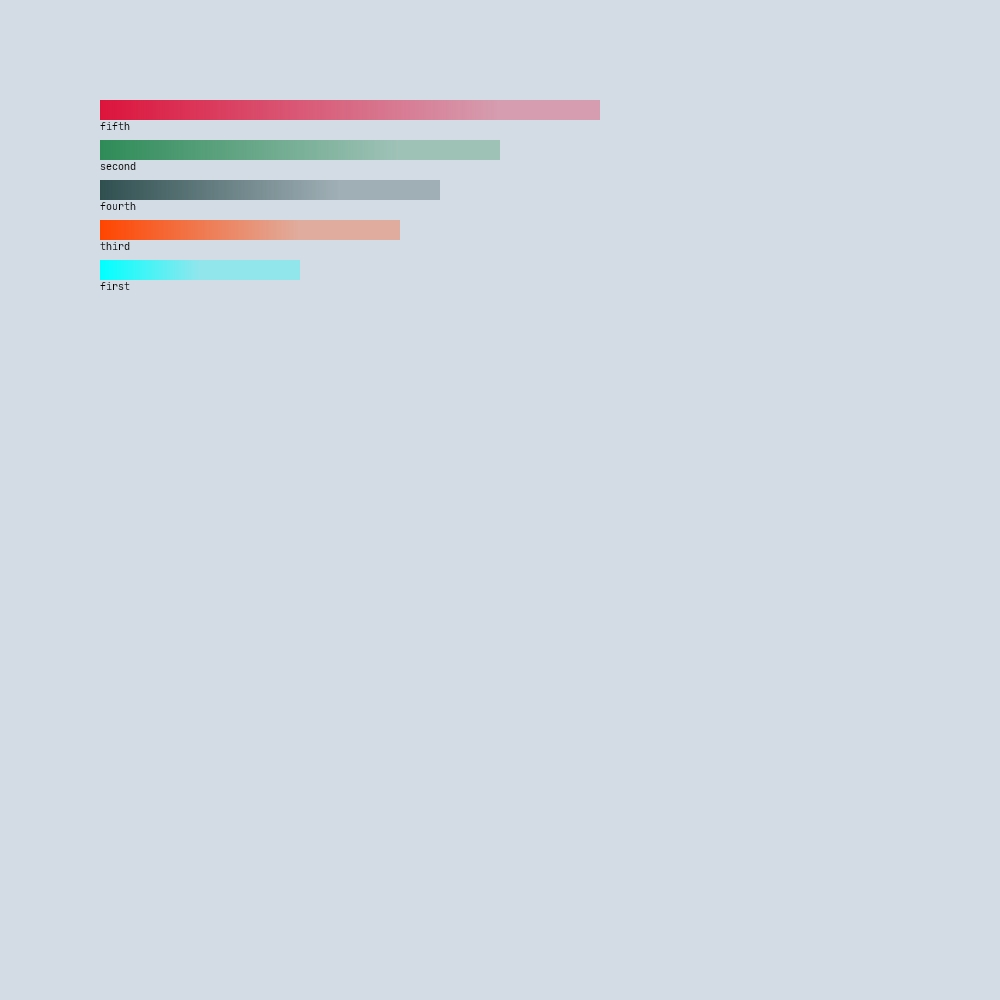
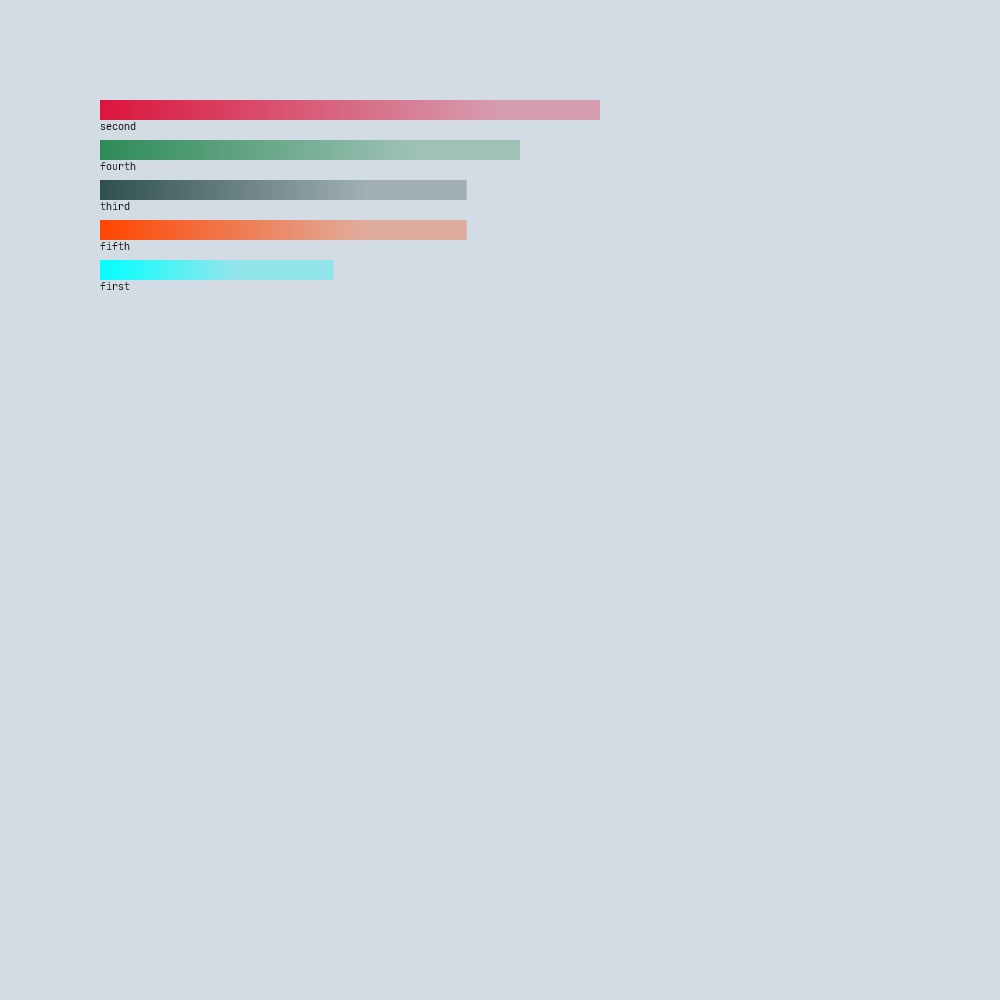
prepareData.kt was refactored

diff --git a/src/main/kotlin/prepareData.kt b/src/main/kotlin/prepareData.kt
@@ -1,3 +1,4 @@
+
 var data : MutableList<classData> = mutableListOf()
 var dataGraph : classGraph = classGraph()
 var fields : List<String> = listOf()
@@ -24,41 +25,72 @@ fun getTypeInput() : typesOfInput? {
     }
 }
 
-fun prepareClusteredHistohram() : Boolean{
+fun getKeyValues(m : Int) : Pair<String, MutableList<Float>>?{
+    var line = lines[st++].split(' ').toMutableList()
+    if(line.isEmpty()){
+        Errors(Error.EMPTYINPUT, st - 1)
+        return null
+    }
+    var key = line[0]
+    line.removeFirst()
+    var values = line.map{
+        if(it.toFloatOrNull() == null){
+            Errors(Error.FLOATINPUT, st - 1)
+            return null
+        }
+        it.toFloat()
+    }.toMutableList()
+    if(values.size != m){
+        Errors(Error.MATCHSIZEFIELDS, st - 1)
+        return null
+    }
+    return Pair(key, values)
+}
+
+fun getPoints() : Pair<Int, MutableList<Pair<Float, Float>>>?{
+    var n = lines[st++].toIntOrNull()
+    if(n == null){
+        Errors(Error.INTINPUT, st)
+        return null
+    }
+    var list = mutableListOf<Pair<Float, Float>>()
+    for (i in 0 until n) {
+        var pair = getKeyValues(1)
+        if(pair == null){
+            return null
+        }
+        var x = pair.first.toFloatOrNull()
+        if(x == null){
+            Errors(Error.FLOATINPUT, st - 1)
+            return null
+        }
+        var y = pair.second[0]
+        list.add(Pair(x, y))
+    }
+    list.sortWith( compareBy({it.first}, {it.second}))
+    return Pair(n, list)
+}
+
+fun prepareClusteredHistogram() : Boolean{
     var nInput = lines[st++].toIntOrNull()
     var mInput = lines[st++].toIntOrNull()
     if(nInput == null || mInput == null){
-        Errors(Error.INTINPUT)
+        Errors(Error.INTINPUT, st - 1)
         return false
     }
     n = nInput
     m = mInput
     fields = lines[st++].split(' ')
     if(fields.size != m){
-        Errors(Error.MATCHSIZEFIELDS)
+        Errors(Error.MATCHSIZEFIELDS, st - 1)
         return false
     }
     for(i in 0 until n){
-        var pair = lines[st++].split(' ')
-        if(pair.isEmpty()){
-            Errors(Error.EMPTYINPUT)
+        var element = getKeyValues(m)
+        if(element == null){
             return false
         }
-        var product = pair[0]
-        var vec1 = pair.toMutableList()
-        vec1.removeFirst()
-        var vec = vec1.map {
-            if(it.toIntOrNull() == null){
-                Errors(Error.INTINPUT)
-                return false
-            }
-            it.toInt()
-        }
-        if (vec.size != m) {
-            Errors(Error.MATCHSIZEFIELDS)
-            return false
-        }
-        data.add(classData(product, vec.toMutableList()))
+        data.add(classData(element.first, element.second))
     }
     return true
 }
@@ -66,12 +98,12 @@ fun prepareClusteredHistohram() : Boolean{
 fun prepareGraph() : Boolean {
     fields = lines[st++].split(' ')
     if(fields.size != 2){
-        Errors(Error.TWOFIELDS)
+        Errors(Error.TWOFIELDS, st - 1)
         return false
     }
     var nInput = lines[st++].toIntOrNull()
     if(nInput == null){
-        Errors(Error.INTINPUT)
+        Errors(Error.INTINPUT, st - 1)
         return false
     }
     n = nInput
@@ -79,33 +111,15 @@ fun prepareGraph() : Boolean {
     for(i in 0 until n){
         var name = lines[st++]
         if(name.isEmpty()){
-            Errors(Error.EMPTYINPUT)
+            Errors(Error.EMPTYINPUT, st - 1)
             continue
         }
         dataGraph.names.add(name)
-        var mInput = lines[st++].toIntOrNull()
-        if(mInput == null){
-            Errors(Error.INTINPUT)
+        var mList = getPoints()
+        if(mList == null){
             return false
         }
-        m = mInput
-        var list = mutableListOf<Pair<Float, Float>>()
-        for (i in 0 until m) {
-            var pair = lines[st++].split(' ')
-            if(pair.size != 2){
-                Errors(Error.MATCHSIZEFIELDS)
-                return false
-            }
-            var x = pair[0].toFloatOrNull()
-            var y = pair[1].toFloatOrNull()
-            if(x == null || y === null){
-                Errors(Error.FLOATINPUT)
-                return false
-            }
-            list.add(Pair(x, y))
-        }
-        list.sortWith( compareBy({it.first}, {it.second}))
-        dataGraph.xyValues.add(list)
+        dataGraph.xyValues.add(mList.second)
     }
     return true
 }
@@ -113,25 +127,18 @@ fun prepareGraph() : Boolean {
 fun preparePieChart() : Boolean{
     var nInput = lines[st++].toIntOrNull()
     if(nInput == null){
-        Errors(Error.INTINPUT)
+        Errors(Error.INTINPUT, st - 1)
         return false
     }
     n = nInput
     data1.n = n
-    var list : MutableList <Pair<Int, String> > = mutableListOf()
+    var list : MutableList <Pair<Float, String> > = mutableListOf()
     for(i in 0 until n){
-        var str = lines[st++].split(' ')
-        if(str.size != 2){
-            Errors(Error.TWOFIELDS)
+        val nameValue = getKeyValues(1)
+        if(nameValue == null){
             return false
         }
-        var name = str[0]
-        var value = str[1].toIntOrNull() // exception !!!!!!!!!
-        if(value == null){
-            Errors(Error.INTINPUT)
-            return false
-        }
-        list.add(Pair(value, name))
+        list.add(Pair(nameValue.second[0], nameValue.first))
     }
     list.sortByDescending { it.first }
     for(v in list){
@@ -142,27 +149,14 @@ fun preparePieChart() : Boolean{
 }
 
 fun prepareDistributionGraph() : Boolean{
-    var nInput = lines[st++].toIntOrNull()
-    if(nInput == null){
-        Errors(Error.INTINPUT)
+    var nValues = getPoints()
+    if(nValues == null){
         return false
     }
-    n = nInput
-    dataDistributionGraph.n = n
-    for(i in 0 until n){
-        var str = lines[st++].split(' ')
-        if(str.size != 2){
-            Errors(Error.TWOFIELDS)
-            return false
-        }
-        var x = str[0].toFloatOrNull()
-        var y = str[1].toFloatOrNull() // exception !!!!!!!!!
-        if(x == null || y == null){
-            Errors(Error.FLOATINPUT)
-            return false
-        }
-        dataDistributionGraph.xValues.add(x)
-        dataDistributionGraph.yValues.add(y)
+    n = nValues.first
+    nValues.second.forEach {
+        dataDistributionGraph.xValues.add(it.first)
+        dataDistributionGraph.yValues.add(it.second)
     }
     return true
 }

diff --git a/src/main/kotlin/Errors.kt b/src/main/kotlin/Errors.kt
@@ -5,13 +5,13 @@ enum class Error{
     WRONGTYPE, INTINPUT, MATCHSIZEFIELDS, TWOFIELDS, EMPTYINPUT, FLOATINPUT
 }
 
-fun Errors(typeEr : Error){
+fun Errors(typeEr : Error, line : Int){
     when(typeEr){
-        Error.WRONGTYPE -> println("you entered the wrong command type\n")
-        Error.INTINPUT -> println("there must be an integer input\n")
-        Error.MATCHSIZEFIELDS -> println("the number of fields does not match the declared\n")
-        Error.TWOFIELDS -> println("there should be two fields\n")
-        Error.EMPTYINPUT -> println("empty input\n")
-        Error.FLOATINPUT -> println("there must be a float input\n")
+        Error.WRONGTYPE -> println("you entered the wrong command type in ${line + 1} line\n")
+        Error.INTINPUT -> println("there must be an integer input in ${line + 1} line\n")
+        Error.MATCHSIZEFIELDS -> println("the number of fields does not match the declared in ${line + 1} line\n")
+        Error.TWOFIELDS -> println("there should be two fields in ${line + 1} line\n")
+        Error.EMPTYINPUT -> println("empty input in ${line + 1} line\n")
+        Error.FLOATINPUT -> println("there must be a float input in ${line + 1} line\n")
     }
 }

diff --git a/src/main/kotlin/main.kt b/src/main/kotlin/main.kt
@@ -21,8 +21,8 @@ import javax.swing.WindowConstants
 import kotlin.io.path.*
 
 
-var mapActionsType = mapOf(typesOfInput.CLUSTEREDHISTOHRAM to :: prepareClusteredHistohram,
-typesOfInput.GRAPH to :: prepareGraph, typesOfInput.STACKEDHISTOHRAM to :: prepareClusteredHistohram,
+var mapActionsType = mapOf(typesOfInput.CLUSTEREDHISTOHRAM to :: prepareClusteredHistogram,
+typesOfInput.GRAPH to :: prepareGraph, typesOfInput.STACKEDHISTOHRAM to :: prepareClusteredHistogram,
 typesOfInput.PIECHART to :: preparePieChart, typesOfInput.DISTRIBUTIONGRAPH to :: prepareDistributionGraph,
 typesOfInput.BARCHART to :: preparePieChart)
 var st = 0
@@ -31,7 +31,7 @@ fun main(args : Array<String>) {
     lines = File(args[0]).readText().split('\n').map{it.removeSuffix("\r")}.toMutableList()
     type = getTypeInput()
     if(type == null){
-        Errors(Error.WRONGTYPE)
+        Errors(Error.WRONGTYPE, st - 1)
         return
     }
     if(mapActionsType[type]?.let{it()} == false) {

diff --git a/src/main/kotlin/data.kt b/src/main/kotlin/data.kt
@@ -2,7 +2,7 @@ import org.jetbrains.skija.Canvas
 import org.jetbrains.skija.Font
 import org.jetbrains.skija.Paint
 
-class classData(var key : String = "", var values : MutableList<Int> = mutableListOf()){
+class classData(var key : String = "", var values : MutableList<Float> = mutableListOf()){
 
 }
 
@@ -10,7 +10,7 @@ class classGraph(var n : Int = 0, var names : MutableList<String> = mutableListO
 
 }
 
-class classData1(var n : Int = 0, var keys : MutableList<String> = mutableListOf(), var values : MutableList<Int> = mutableListOf()){
+class classData1(var n : Int = 0, var keys : MutableList<String> = mutableListOf(), var values : MutableList<Float> = mutableListOf()){
 
 }
 

diff --git a/src/main/kotlin/getInstructionsPieChart.kt b/src/main/kotlin/getInstructionsPieChart.kt
@@ -37,7 +37,7 @@ fun getInstructionsPieChart(paint : Paint) : MutableList<Instruction > {
         var angleTo = -startAngle - 180f * v / sum
         var centralX = pointx + startradius * cos(angleTo / 180f * PI) / 2
         var centralY = pointy - startradius * sin(angleTo / 180f * PI) / 2
-        var percent = v * 100 / sum
+        var percent = (v * 100 / sum).toInt()
         instructions.add(Instruction(Type = "String", text = "$percent%", coordinates = floatArrayOf(centralX.toFloat(), centralY.toFloat())))
         if(angleTo < -90f || angleTo > 90f){
             instructions.add(Instruction(Type = "String", text = data1.keys[i], coordinates = floatArrayOf(leftx, lefty)))

diff --git a/src/main/kotlin/getInstructionsStackedHistohram.kt b/src/main/kotlin/getInstructionsStackedHistohram.kt
@@ -12,7 +12,7 @@ fun getInstructionsStackedHistohram(paint : Paint) : MutableList<Instruction>{
         instructions.add(Instruction(Type = "Rect", coordinates = floatArrayOf(30f, 30f + 20 * j * 1f,  10f, 10f), paints = arrayListOf(arrayListPaints[j])))
         instructions.add(Instruction(Type = "String", text = fields[j], coordinates = floatArrayOf(40f, 40f + 20 * j * 1f)))
     }
-    var proportion = maxsum / 10
+    var proportion = (maxsum / 10).toInt()
     if(proportion == 0){
         proportion = 1
     }
